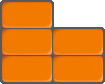
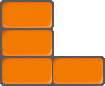
Add title text for nonintuitive UI items
Not as good as real tooltips, but that takes more time to implement and
this is better than nothing.

Changed region(s): [[0.0, 0.2619, 1.0, 0.6905]]

diff --git a/assets/css/_custom.scss b/assets/css/_custom.scss
@@ -105,7 +105,7 @@
 
 .player-name-container-1 {
   right: 6rem;
-  top: 6rem;
+  top: 11.8rem;
 }
 
 .player-name-container-2 {
@@ -116,7 +116,7 @@
 
 .player-name-container-3 {
   left: 6rem;
-  top: 6rem;
+  top: 11.8rem;
 }
 
 .player-name {
